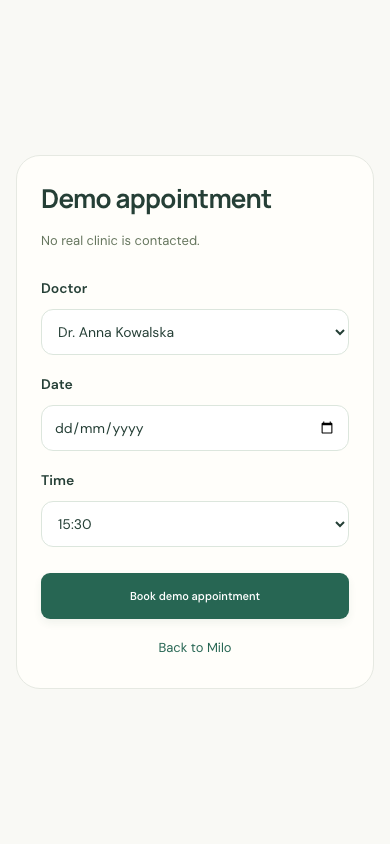
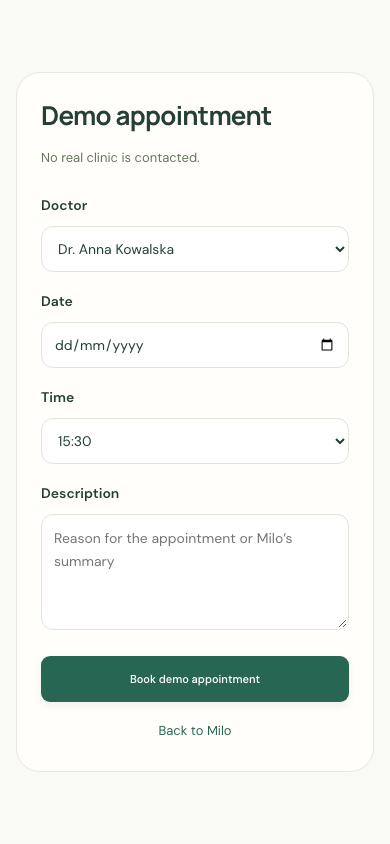
feat: include conversation summary in demo appointments

diff --git a/src/lib/server/appointment-config.ts b/src/lib/server/appointment-config.ts
@@ -21,8 +21,14 @@ export const appointmentTools = [
             "Local calendar date YYYY-MM-DD, within the next 30 days.",
         },
         time: { type: "string", enum: [...appointmentTimes] },
+        description: {
+          type: "string",
+          maxLength: 1500,
+          description:
+            "A concise conversation summary based only on the user's reported symptoms, timeline, severity and relevant context. Preserve corrections and uncertainty; do not invent a diagnosis or missing history. Use an empty string if there is no relevant information.",
+        },
       },
-      required: ["clinicianId", "date", "time"],
+      required: ["clinicianId", "date", "time", "description"],
       additionalProperties: false,
     },
   },
@@ -53,5 +59,5 @@ export const appointmentTools = [
 ];
 export function appointmentInstructions() {
   return `DEMO APPOINTMENTS: Today is ${appointmentDay()}. Available fictional doctors: ${clinicians.map((doctor) => `${doctor.id}: ${doctor.name} (${doctor.format})`).join("; ")}. Any date from ${appointmentDay(1)} through ${appointmentDay(30)} and time ${appointmentTimes.join(", ")} is available in this demo. Never invent another doctor or time.
-When a routine professional consultation is appropriate, offer to arrange a demo appointment. Choose or collect a preferred doctor, date and time. Call prepare_demo_appointment BEFORE asking approval for a specific slot. Read the exact question returned by the tool as the final sentence of the next spoken reply. This question names the doctor, date and time and states that this is a demo appointment. Do not append an unrelated question. Then WAIT for a new user response. Do not interpret prior or unrelated agreement as consent. If they decline or are uncertain, do not book. If they change the slot, prepare the new slot and ask again. After a clear affirmative answer, call book_demo_appointment with the returned proposalId and exact user confirmation. The app verifies consent and saves the booking. Say it is booked ONLY when the tool returns status booked; it will appear under Appointments. On error or needs_confirmation, explain or ask for confirmation; never pretend success. Do not call tools to book urgent-care presentations. Urgent guidance takes priority. Demo tools only save doctor/date/time; never put symptoms or medical history into appointment fields.`;
+When a routine professional consultation is appropriate, offer to arrange a demo appointment. Choose or collect a preferred doctor, date and time. Include a concise description summarising only what the patient reported, with corrections and unknowns preserved. Never invent a diagnosis, treatment or missing history. Briefly explain the summary you will include before the exact confirmation question, so the user can correct it. Call prepare_demo_appointment BEFORE asking approval for a specific slot. Read the exact question returned by the tool as the final sentence of the next spoken reply. This question names the doctor, date and time and states that this is a demo appointment. Do not append an unrelated question. Then WAIT for a new user response. Do not interpret prior or unrelated agreement as consent. If they decline or are uncertain, do not book. If they change the slot, prepare the new slot and ask again. After a clear affirmative answer, call book_demo_appointment with the returned proposalId and exact user confirmation. The app verifies consent and saves the booking. Say it is booked ONLY when the tool returns status booked; it will appear under Appointments. On error or needs_confirmation, explain or ask for confirmation; never pretend success. Do not call tools to book urgent-care presentations. Urgent guidance takes priority. The description is saved with the demo appointment and appears in the Appointments menu. Keep it short and relevant; doctor/date/time fields must contain only scheduling values. No clinic receives this demo booking or summary.`;
 }

diff --git a/tests/e2e/appointments.spec.ts b/tests/e2e/appointments.spec.ts
@@ -47,6 +47,11 @@ test("the small form creates bookings that survive refresh in Appointments", asy
   await page.getByLabel("Date", { exact: true }).fill(await tomorrow(page));
   await page.getByLabel("Time", { exact: true }).selectOption("17:15");
   await page
+    .getByLabel("Description", { exact: true })
+    .fill(
+      "Recurring evening headaches for two weeks. I would like a GP consultation.",
+    );
+  await page
     .getByRole("button", { name: "Book demo appointment", exact: true })
     .click();
   await expect(
@@ -55,8 +60,14 @@ test("the small form creates bookings that survive refresh in Appointments", asy
   await page.getByRole("link", { name: "Back to Milo" }).click();
   await expect(await appointments(page)).toContainText("Dr. Maya Zielińska");
   await expect(panel).toContainText("17:15");
+  await expect(panel).toContainText(
+    "Recurring evening headaches for two weeks. I would like a GP consultation.",
+  );
   await page.reload();
   await expect(await appointments(page)).toContainText("Dr. Maya Zielińska");
+  await expect(panel).toContainText(
+    "Recurring evening headaches for two weeks. I would like a GP consultation.",
+  );
   await panel.getByRole("link", { name: "Book demo appointment" }).click();
   await page.getByLabel("Date", { exact: true }).fill(await tomorrow(page));
   await page.getByLabel("Time", { exact: true }).selectOption("16:00");
@@ -116,6 +127,8 @@ test("Milo books only after asking and hearing OK, and avoids duplicate bookings
         clinicianId: "anna",
         date,
         time: "15:30",
+        description:
+          "Patient reports recurring headaches and wants a routine GP consultation. Cause is unknown.",
       }),
     date,
   );
@@ -154,6 +167,9 @@ test("Milo books only after asking and hearing OK, and avoids duplicate bookings
   const panel = await appointments(page);
   await expect(panel).toContainText("Dr. Anna Kowalska");
   await expect(panel).toContainText("15:30");
+  await expect(panel).toContainText(
+    "Patient reports recurring headaches and wants a routine GP consultation. Cause is unknown.",
+  );
   await expect(panel.getByRole("listitem")).toHaveCount(1);
 });
 

diff --git a/src/app/globals.css b/src/app/globals.css
@@ -2319,10 +2319,14 @@ main {
 .appointment-form-card h1 { margin-bottom: 14px; font-size: 26px; letter-spacing: -0.7px; }
 .appointment-form-card form { display: flex; flex-direction: column; gap: 12px; }
 .appointment-form-card label { font-size: 14px; font-weight: 600; margin-top: 8px; }
-.appointment-form-card input, .appointment-form-card select { width: 100%; min-width: 0; min-height: 46px; padding: 12px; border: 1px solid #dce6dd; border-radius: 12px; background: white; color: var(--ink); font: inherit; }
+.appointment-form-card input, .appointment-form-card select, .appointment-form-card textarea { width: 100%; min-width: 0; min-height: 46px; padding: 12px; border: 1px solid #dce6dd; border-radius: 12px; background: white; color: var(--ink); font: inherit; }
 .appointment-form-card select:focus-visible { outline: 3px solid #a6c8b4; outline-offset: 4px; }
 .appointment-form-card form .button { margin-top: 14px; }
 .appointment-back { align-self: center; padding: 8px; font-size: 13px; color: var(--teal); }
 .appointment-form-summary { margin: 24px 0; line-height: 1.9; }
 .appointment-form-error { margin-top: 8px; color: #925047; font-size: 13px; line-height: 1.6; }
 @media (max-width: 650px) { .appointment-form-card { padding: 24px; } }
+
+.appointment-form-card textarea { resize: vertical; line-height: 1.6; }
+.appointment-description { margin: 16px 0 24px; white-space: pre-wrap; overflow-wrap: anywhere; font-size: 14px; line-height: 1.7; color: #66765e; }
+.booked-appointments li p.appointment-description { margin-top: 14px; margin-bottom: 0; }

diff --git a/tests/appointments.test.ts b/tests/appointments.test.ts
@@ -2,6 +2,7 @@ import { afterEach, expect, it, vi } from "vitest";
 import { createAppointmentTools } from "../src/lib/live/appointment-tools";
 import {
   appointmentDay,
+  bookDemoAppointment,
   readDemoAppointments,
 } from "../src/lib/demo-appointments";
 import { applyTranscript, emptyTranscript } from "../src/lib/live/events";
@@ -48,6 +49,23 @@ it("cannot use consent to an unrelated question to book the prepared appointment
     }),
   ).toMatchObject({ status: "needs_confirmation" });
   expect(readDemoAppointments()).toEqual([]);
+});
+
+it("adds a summary to an existing slot without duplicating the booking or erasing it on an empty retry", () => {
+  scenario();
+  const slot = { clinicianId: "anna", date: appointmentDay(1), time: "15:30" };
+  const first = bookDemoAppointment(slot);
+  const updated = bookDemoAppointment({
+    ...slot,
+    description: "  Patient reports headaches. Cause unknown.  ",
+  });
+  expect(updated.id).toBe(first.id);
+  expect(updated.description).toBe("Patient reports headaches. Cause unknown.");
+  bookDemoAppointment(slot);
+  expect(readDemoAppointments()).toHaveLength(1);
+  expect(readDemoAppointments()[0].description).toBe(
+    "Patient reports headaches. Cause unknown.",
+  );
 });
 it("cannot reuse appointment consent after the assistant changes the question", () => {
   const { say, run, proposal, date } = scenario();

diff --git a/src/app/appointments/new/page.tsx b/src/app/appointments/new/page.tsx
@@ -31,6 +31,9 @@ export default function AppointmentPage() {
               <br />
               {formatAppointmentDate(booking.date)} · {booking.time}
             </p>
+            {booking.description && (
+              <p className="appointment-description">{booking.description}</p>
+            )}
             <Link className="button primary" href="/">
               Back to Milo
             </Link>
@@ -47,6 +50,7 @@ export default function AppointmentPage() {
                     clinicianId: fields.get("doctor"),
                     date: fields.get("date"),
                     time: fields.get("time"),
+                    description: fields.get("description"),
                   }),
                 );
               } catch (error) {
@@ -83,6 +87,14 @@ export default function AppointmentPage() {
                 </option>
               ))}
             </select>
+            <label htmlFor="appointment-description">Description</label>
+            <textarea
+              name="description"
+              id="appointment-description"
+              rows={4}
+              maxLength={1500}
+              placeholder="Reason for the appointment or Milo’s summary"
+            />
             {error && (
               <p className="appointment-form-error" role="alert">
                 {error}

diff --git a/src/lib/demo-appointments.ts b/src/lib/demo-appointments.ts
@@ -6,6 +6,7 @@ export const appointmentInputSchema = z
     clinicianId: z.enum(["anna", "piotr", "maya"]),
     date: z.iso.date(),
     time: z.enum(appointmentTimes),
+    description: z.string().trim().max(1500).default(""),
   })
   .strict();
 const appointmentSchema = appointmentInputSchema.extend({
@@ -70,16 +71,23 @@ export function bookDemoAppointment(
       item.date === input.date &&
       item.time === input.time,
   );
-  if (existing) return existing;
-  if (appointments.length >= 100)
+  if (
+    existing &&
+    (!input.description || input.description === existing.description)
+  )
+    return existing;
+  if (!existing && appointments.length >= 100)
     throw new Error("The demo appointment list is full.");
   const booking: DemoAppointment = {
     ...input,
-    id: crypto.randomUUID(),
+    id: existing?.id ?? crypto.randomUUID(),
     demo: true,
   };
   try {
-    target.setItem(storageKey, JSON.stringify([...appointments, booking]));
+    const next = existing
+      ? appointments.map((item) => (item.id === existing.id ? booking : item))
+      : [...appointments, booking];
+    target.setItem(storageKey, JSON.stringify(next));
   } catch {
     throw new Error(
       "The appointment could not be saved. Allow browser storage and try again.",

diff --git a/src/components/booked-appointments.tsx b/src/components/booked-appointments.tsx
@@ -35,6 +35,11 @@ export function BookedAppointments({
                       {appointment.time}
                     </p>
                     <span>{doctor.format} · Booked</span>
+                    {appointment.description && (
+                      <p className="appointment-description">
+                        {appointment.description}
+                      </p>
+                    )}
                   </div>
                 </li>
               );

diff --git a/README.md b/README.md
@@ -24,7 +24,7 @@ OPENAI_BACKEND_MODEL=gpt-6-luna
 OPENAI_LIVE_VOICE=marin
 ```
 
-The voice model is exactly **gpt-live-1**, using the Live WebRTC API with Responses delegation. The backend model and voice are server-configurable. The project/account must have access to these models. Microphone access needs localhost or HTTPS and browser permission; remote audio may require the **Enable audio** button if playback is blocked. On `/journey`, end a voice session before generating its plan, so final captions can arrive. The main screen keeps captions in the Records panel. The top-right menu opens a session-only profile and a list of booked demo appointments. A small doctor/date/time form is available at `/appointments/new`. Milo can prepare a routine demo slot, ask the specific confirmation question, then save it after fresh explicit consent. Manual and voice bookings share validation and browser storage.
+The voice model is exactly **gpt-live-1**, using the Live WebRTC API with Responses delegation. The backend model and voice are server-configurable. The project/account must have access to these models. Microphone access needs localhost or HTTPS and browser permission; remote audio may require the **Enable audio** button if playback is blocked. On `/journey`, end a voice session before generating its plan, so final captions can arrive. The main screen keeps captions in the Records panel. The top-right menu opens a session-only profile and a list of booked demo appointments. A small doctor/date/time/description form is available at `/appointments/new`. Milo can prepare a routine demo slot, ask the specific confirmation question, then save it after fresh explicit consent. Manual and voice bookings share validation and browser storage.
 
 ## What works
 
@@ -47,13 +47,13 @@ npx playwright install chromium
 npm run test:e2e
 ```
 
-On 4 October 2026: 28 unit tests and 25 browser tests passed; lint, typecheck and production build passed. Browser checks cover the complete sample journey, edit preservation after upstream errors, urgent routing, mode isolation, mobile widths and keyboard access. Live transport tests use fake media and upstream calls. Actual account-backed voice/audio, interruptions and captions remain **unverified**; automated checks use mocked live audio and upstream calls, with actual browser playback of the supplied speaking video. See [verification evidence](docs/verification.md).
+On 4 October 2026: 29 unit tests and 25 browser tests passed; lint, typecheck and production build passed. Browser checks cover the complete sample journey, edit preservation after upstream errors, urgent routing, mode isolation, mobile widths and keyboard access. Live transport tests use fake media and upstream calls. Actual account-backed voice/audio, interruptions and captions remain **unverified**; automated checks use mocked live audio and upstream calls, with actual browser playback of the supplied speaking video. See [verification evidence](docs/verification.md).
 
 ## Prototype boundaries
 
 HealthMate is an adult health companion, not a clinician or a clinically validated triage service. It does not diagnose or prescribe. AI output can be wrong and needs human review. Unknown history stays unknown. Possible urgent symptoms trigger professional-help guidance, not routine sample booking.
 
-There are no real appointments, external clinic contacts, authentication, uploads, analytics or app-side audio recording. Live transcripts, plans and edits stay in browser memory; refreshing loses them. OpenAI receives live audio and messages used for responses; standalone Responses requests use `store: false`. OpenAI service data policies still apply. Only synthetic demo bookings are stored in this app's localStorage namespaces. The journey reset clears its own sample booking; the main Appointments list remains until browser storage is cleared.
+There are no real appointments, external clinic contacts, authentication, uploads, analytics or app-side audio recording. Live transcripts, plans and edits stay in browser memory; refreshing loses them. OpenAI receives live audio and messages used for responses; standalone Responses requests use `store: false`. OpenAI service data policies still apply. Demo appointment entries, including manually entered descriptions or Milo's conversation summaries, are stored in this app's localStorage namespaces. The journey reset clears its own sample booking; the main Appointments list remains until browser storage is cleared.
 
 API endpoints accept matching loopback origins (localhost, 127.0.0.1 or ::1), with bounded bodies and local process rate limits. These are appropriate for this local prototype; public hosting needs authentication, durable rate limits, a privacy/retention review and clinical evaluation before use. This scope does not publish a site.
 

diff --git a/docs/verification.md b/docs/verification.md
@@ -2,7 +2,7 @@
 
 Verified locally on Node.js 22, macOS and Chromium.
 
-- Unit suite: 28/28 passing across domain validation, session isolation, API boundaries and fake WebRTC lifecycle.
+- Unit suite: 29/29 passing across domain validation, session isolation, API boundaries and fake WebRTC lifecycle.
 - Browser suite: 25/25 passing, including the five-screen demo, editable brief, print media, local demo booking persistence, failed plan regeneration, urgent mobile routing, keyboard entry, real local API origin validation, navigation during microphone acquisition, active voice closing, urgent exports and the interview budget.
 - Production build, ESLint and TypeScript: passing.
 - Visual inspection: desktop and 390-pixel mobile home, conversation, care plan, appointments and doctor brief. Avatar transparency, overflow, focus and text contrast checked.
@@ -23,3 +23,5 @@ Speaking video: actual Chromium playback of `/videos/milo.mp4` verified with moc
 Account menu revision: top-right icon opens Profile, Appointments and Records. Four new browser checks cover session-only name editing, mobile sample booking, empty/current conversation records, stopping live media before opening a panel, keyboard navigation, Escape/focus return and outside-click dismissal. Inspected the desktop menu/profile and mobile appointment panel; refreshed home screenshots. [Account menu](screenshots/account-menu.png).
 
 Demo appointment revision: `/appointments/new` contains only doctor, date, time and submit/return controls. Appointments shows saved entries instead of the clinician exploration flow. Four new browser checks cover multiple bookings surviving refresh, storage failure without a false confirmation, prepare → ask → fresh OK → save, duplicate prevention, stale agreement and refusal. Unit checks cover delegated Responses function-result sequencing and replay, consent to unrelated/intervening questions, natural English affirmation and a throwing localStorage getter. All 28 unit/25 browser tests, lint, TypeScript and production build pass. New review found two Important consent/storage defects, both reproduced RED→GREEN and fixed. No new paid OpenAI calls; live model speech and actual tool timing remain unverified. [Mobile form](screenshots/appointment-form-mobile.png), [booked list](screenshots/booked-appointments-mobile.png). Protocol follows [official GPT-Live delegation documentation](https://developers.openai.com/api/docs/guides/live-delegation).
+
+Description revision: optional 1,500-character description added to the form and booked entries. Milo prepares a concise patient-reported conversation summary through the same field. Updated form and mocked voice tests observed RED→GREEN, including persistence across refresh. A unit regression confirms a new summary updates an existing slot without duplicating it, and an empty retry preserves the saved description. Descriptionless existing bookings remain valid. Final checks: 29 unit/25 browser tests, lint, typecheck and build pass; mobile form and summary layout inspected. No new real voice/paid API checks.

diff --git a/docs/implementation-notes.md b/docs/implementation-notes.md
@@ -33,3 +33,5 @@ Video revision: user supplied public/videos/milo.mp4 and requested speech playba
 Account menu revision: user requested one top-right icon with Profile, Appointments and Records. Added a compact accessible dropdown and native dialog panels; current-session profile/transcripts stay in memory, and only validated synthetic bookings use the existing demo storage namespace. Selecting a panel cancels pending setup or gracefully ends voice before displaying the panel. Four new browser regressions observed RED→GREEN. Desktop/mobile screenshots inspected. Final checks: 23 unit/21 browser tests, lint, typecheck and production build pass.
 
 Demo appointment revision: user requested a simple form plus ask-before-book voice behavior and booked entries in Appointments. Shared local demo booking validation accepts known clinicians, demo times and dates within the next 30 days. Responses functions prepare a specific slot and then book only after the exact slot question and fresh explicit user agreement; unrelated questions/refusal/stale replies fail. Function results are returned before continuing the delegated backend response. Only doctor/date/time are persisted. Menu shows booked entries; original `/journey` remains intact. Four browser checks and a delegated function unit check observed RED→GREEN. Review found two Important consent/storage issues; four unit regressions observed failing and then passing after fixes. Final verification: 28 unit/25 browser tests, lint, typecheck and build pass; mobile form/list screenshots inspected. Real OpenAI voice/tool execution remains unverified; unusual or non-English consent is conservatively rejected for clarification.
+
+Description revision: user requested an appointment description so Milo can attach a summary. Added optional, trimmed, bounded text to the shared booking schema; descriptionless existing records remain compatible. Form and booking confirmation/list display it, and prepare_demo_appointment accepts a patient-reported summary with uncertainty/corrections preserved. Re-booking the same slot with a summary updates the existing entry; blank retries preserve it. Browser form/voice regressions plus duplicate-summary unit test observed RED→GREEN. Verified 29 unit/25 browser tests, lint, typecheck and build; screenshots refreshed. Appointment descriptions now persist locally with demo bookings, and data-handling docs reflect this.

diff --git a/docs/ai-and-resources.md b/docs/ai-and-resources.md
@@ -20,6 +20,6 @@ Next.js, React, TypeScript, Zod, Lucide React, Vitest, Testing Library, ESLint a
 
 ## Limits and data handling
 
-No real booking, payment, message to clinicians or other external action occurs. The generated plan is a suggestion, with uncertainty and unknown information shown. There is no app-side raw audio recording or health-data logging. Live data stays in memory in the app, while OpenAI processes the audio/text required for live operation; server Responses calls request `store: false`. Only sample booking data persists locally in demo mode. Public deployment, real clinic integration, clinical validation and authentication are outside this build.
+No real booking, payment, message to clinicians or other external action occurs. The generated plan is a suggestion, with uncertainty and unknown information shown. There is no app-side raw audio recording or health-data logging. Live transcripts and plans stay in memory in the app, while OpenAI processes the audio/text required for live operation; server Responses calls request `store: false`. Demo appointment entries persist in localStorage, including optional descriptions entered in the form or conversation summaries prepared by Milo. These descriptions may contain user-reported health information and remain until browser storage is cleared. No clinic receives this data. Public deployment, real clinic integration, clinical validation and authentication are outside this build.
 
 The speaking animation in `public/videos/milo.mp4` was supplied by the user. Its generation tool and provenance have not been inferred. The app plays it muted alongside OpenAI voice audio and loops it during longer responses.
